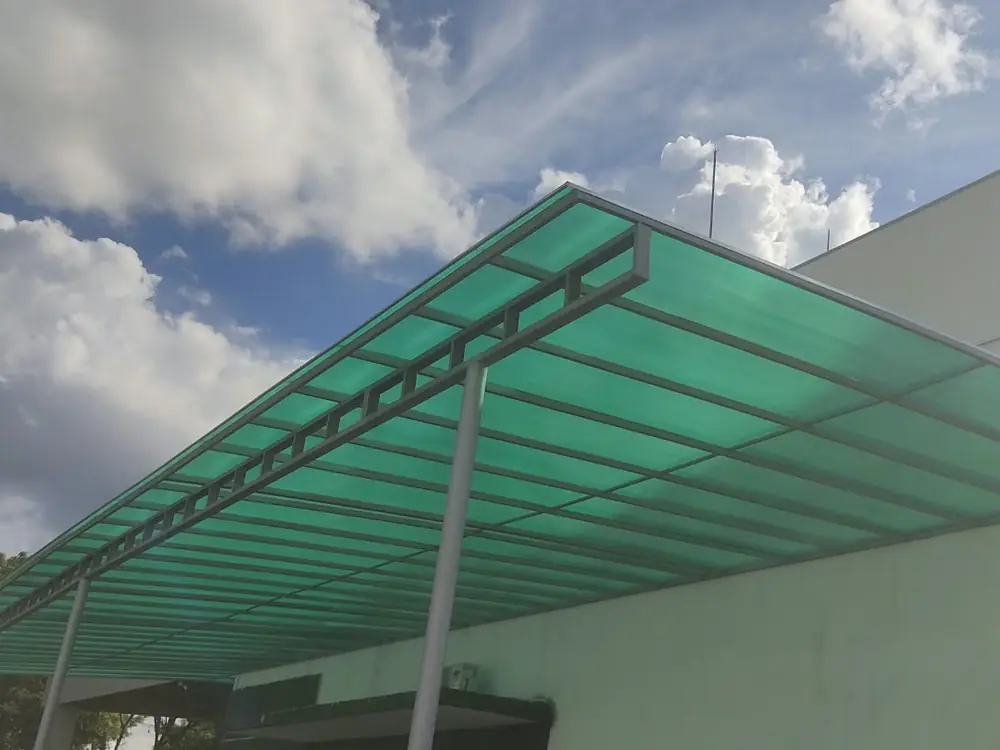
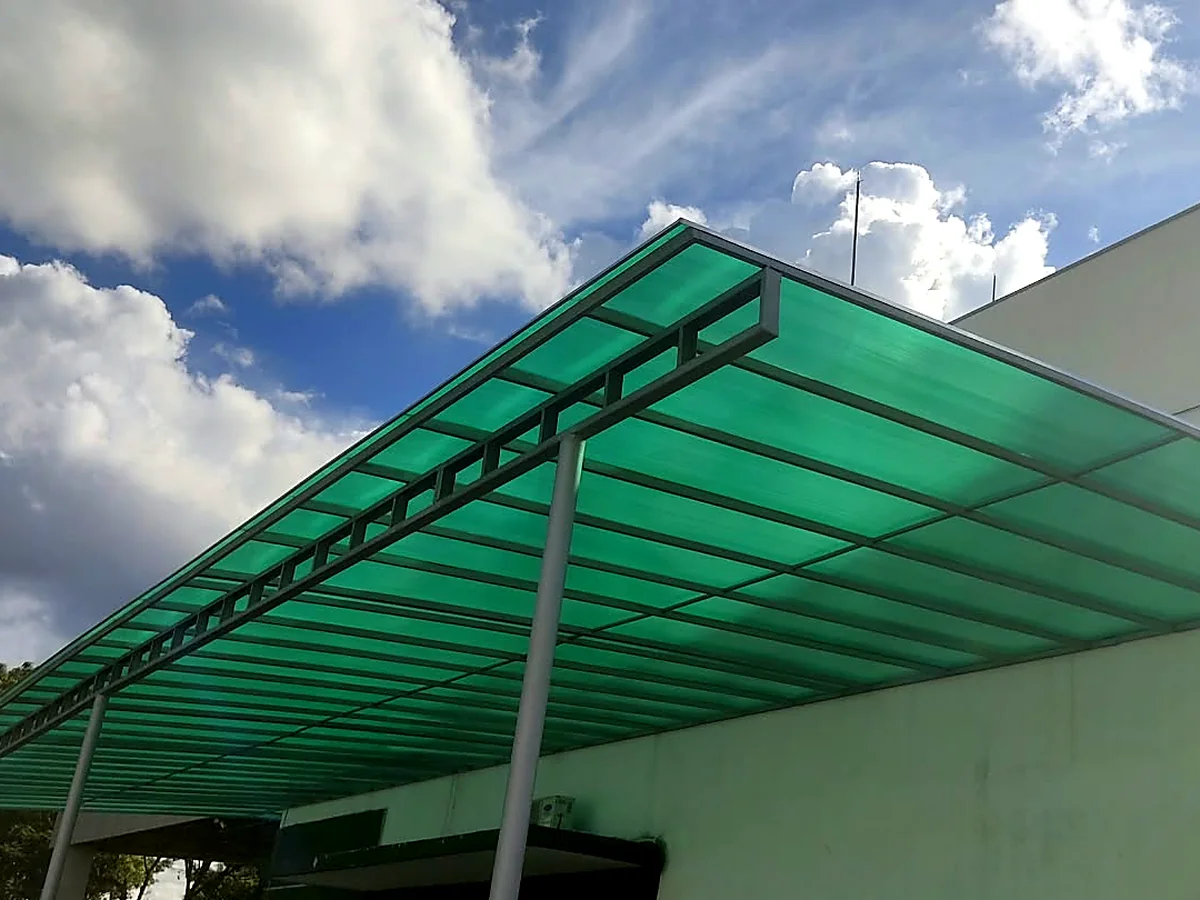
perf(img): fotos das obras com mais nitidez, contraste e resolução
- Reexporta hero, portfólio e og-image em 1200x900 com qualidade maior
- Ajuste de contraste, cor e nitidez preservando os tons originais

diff --git a/index.html b/index.html
@@ -155,27 +155,27 @@
             <p class="section-lead">Fotos de obras entregues pela GCastro.</p>
             <div class="obras-grid">
                 <figure class="projeto-card reveal">
-                    <div class="projeto-media"><img src="images/obras/cobertura-arco.webp" alt="Cobertura em arco sobre entrada lateral de casa" width="1000" height="750" loading="lazy"></div>
+                    <div class="projeto-media"><img src="images/obras/cobertura-arco.webp" alt="Cobertura em arco sobre entrada lateral de casa" width="1200" height="900" loading="lazy"></div>
                     <figcaption><h3>Cobertura em arco</h3><span>Policarbonato e estrutura metálica</span></figcaption>
                 </figure>
                 <figure class="projeto-card reveal">
-                    <div class="projeto-media"><img src="images/obras/policarbonato-verde.webp" alt="Cobertura de policarbonato verde em área externa" width="1000" height="750" loading="lazy"></div>
+                    <div class="projeto-media"><img src="images/obras/policarbonato-verde.webp" alt="Cobertura de policarbonato verde em área externa" width="1200" height="900" loading="lazy"></div>
                     <figcaption><h3>Policarbonato verde</h3><span>Cobertura de área externa</span></figcaption>
                 </figure>
                 <figure class="projeto-card reveal">
-                    <div class="projeto-media"><img src="images/obras/cobertura-garagem.webp" alt="Cobertura metálica de garagem" width="1000" height="750" loading="lazy"></div>
+                    <div class="projeto-media"><img src="images/obras/cobertura-garagem.webp" alt="Cobertura metálica de garagem" width="1200" height="900" loading="lazy"></div>
                     <figcaption><h3>Cobertura de garagem</h3><span>Estrutura sob medida</span></figcaption>
                 </figure>
                 <figure class="projeto-card reveal">
-                    <div class="projeto-media"><img src="images/obras/corredor-escola.webp" alt="Corredor coberto em escola" width="1000" height="750" loading="lazy"></div>
+                    <div class="projeto-media"><img src="images/obras/corredor-escola.webp" alt="Corredor coberto em escola" width="1200" height="900" loading="lazy"></div>
                     <figcaption><h3>Corredor coberto</h3><span>Obra em escola</span></figcaption>
                 </figure>
                 <figure class="projeto-card reveal">
-                    <div class="projeto-media"><img src="images/obras/telhado-laje.webp" alt="Telhado metálico sobre laje" width="1000" height="750" loading="lazy"></div>
+                    <div class="projeto-media"><img src="images/obras/telhado-laje.webp" alt="Telhado metálico sobre laje" width="1200" height="900" loading="lazy"></div>
                     <figcaption><h3>Telhado metálico</h3><span>Telhado sobre laje</span></figcaption>
                 </figure>
                 <figure class="projeto-card reveal">
-                    <div class="projeto-media"><img src="images/obras/pergolado-jardim.webp" alt="Cobertura em arco no jardim" width="1000" height="750" loading="lazy"></div>
+                    <div class="projeto-media"><img src="images/obras/pergolado-jardim.webp" alt="Cobertura em arco no jardim" width="1200" height="900" loading="lazy"></div>
                     <figcaption><h3>Cobertura no jardim</h3><span>Estrutura metálica em arco</span></figcaption>
                 </figure>
             </div>
